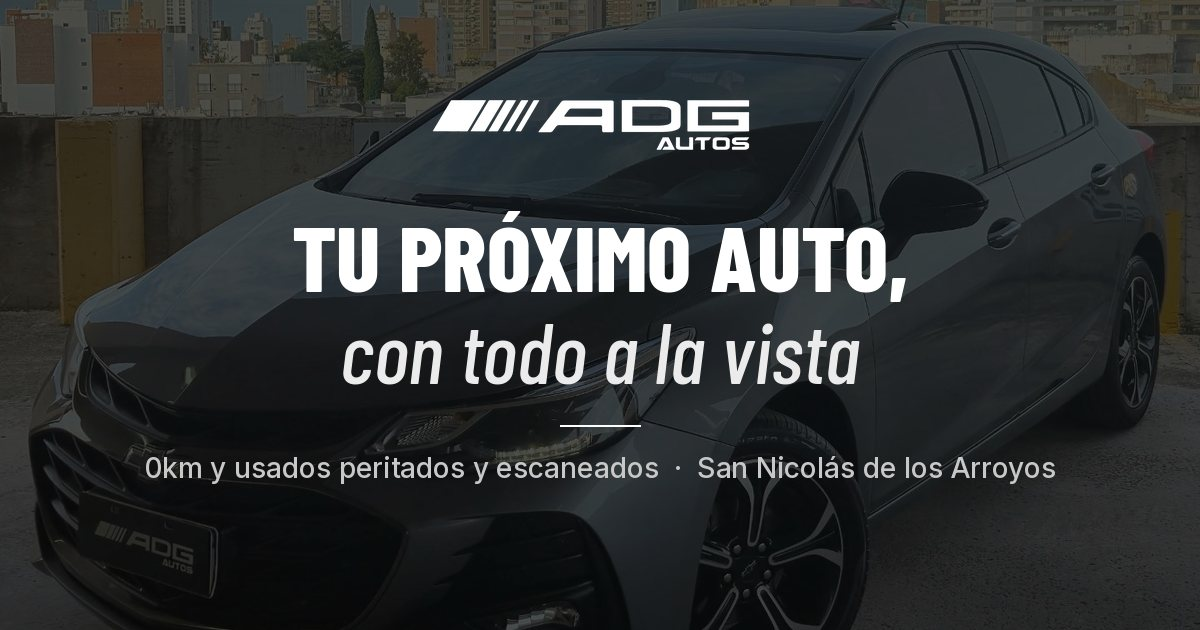
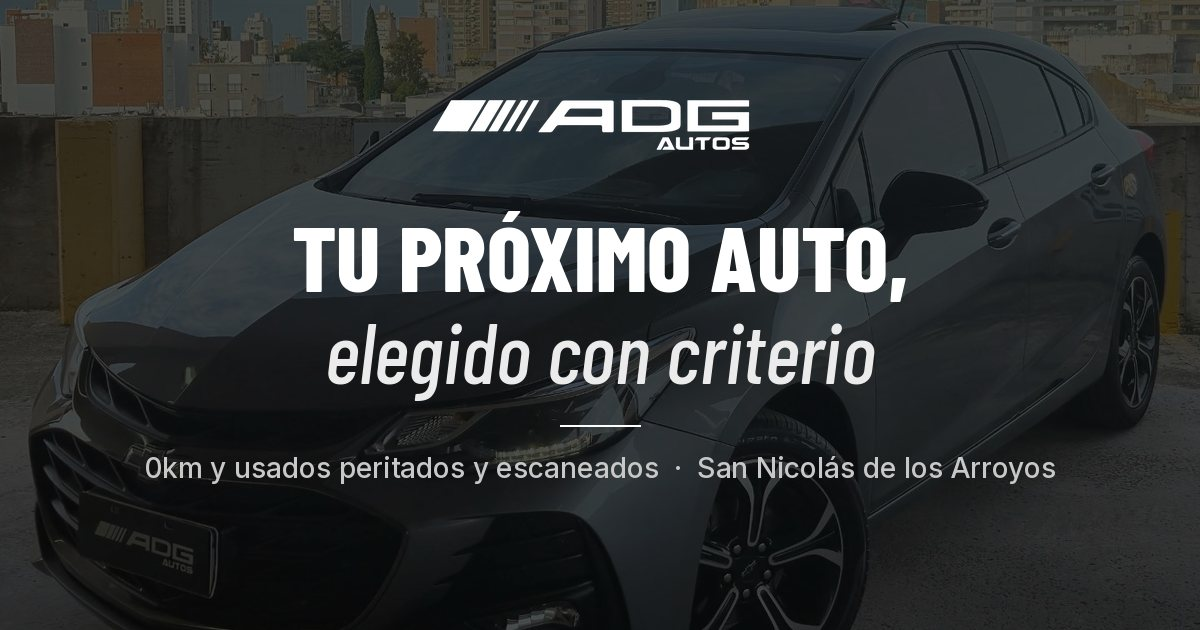
Mantener slogan original y usar reseñas reales de Google en testimonios
Claude-Session: https://claude.ai/code/session_01MQQQfBqcTWHq4wKFA4Y4eU

Changed region(s): [[0.2467, 0.5127, 0.74, 0.6333]]

diff --git a/index.html b/index.html
@@ -74,7 +74,7 @@
         <span class="hero-badge">✦ 10 años de experiencia</span>
         <h1>
             Tu próximo auto,
-            <span class="line-2">con todo a la vista</span>
+            <span class="line-2">elegido con criterio</span>
         </h1>
         <p class="hero-subtitle">
             Concesionario de vehículos 0km y usados seleccionados en San Nicolás.
@@ -582,34 +582,56 @@
             <div class="testimonials-track" id="testimonialsTrack">
                 <div class="testimonial-card">
                     <div class="testimonial-stars">★★★★★</div>
-                    <p class="testimonial-text">"La atención y gestión de Agustín 10 puntos. Compré una Hilux y fue todo tal cual me había dicho: peritaje, documentación impecable. Sin dudas para recomendar."</p>
+                    <p class="testimonial-text">"Todo el proceso de compra fue muy claro y seguro, con buen asesoramiento previo. Muy recomendable."</p>
                     <div class="testimonial-author">
-                        <div class="testimonial-avatar">MM</div>
+                        <div class="testimonial-avatar">PG</div>
                         <div class="testimonial-info">
-                            <div class="testimonial-name">Martín Molina</div>
-                            <div class="testimonial-role">San Nicolás</div>
+                            <div class="testimonial-name">Pablo Giovanelli</div>
+                            <div class="testimonial-role">Reseña en Google</div>
                         </div>
                     </div>
                 </div>
                 <div class="testimonial-card">
                     <div class="testimonial-stars">★★★★★</div>
-                    <p class="testimonial-text">"Compré un vehículo 0km con financiación, me guiaron paso a paso despejando las dudas y se encargaron de TODO. Excelente la atención y muy atentos siempre."</p>
+                    <p class="testimonial-text">"Excelente atención! Super atento y muy muy responsable. Excelente asesoramiento. Se concretó todo en el tiempo y forma estipulada! Totalmente recomendable!!"</p>
                     <div class="testimonial-author">
-                        <div class="testimonial-avatar">CB</div>
+                        <div class="testimonial-avatar">PM</div>
                         <div class="testimonial-info">
-                            <div class="testimonial-name">Carolina Beltrán</div>
-                            <div class="testimonial-role">Rosario</div>
+                            <div class="testimonial-name">Patricia Manelli</div>
+                            <div class="testimonial-role">Reseña en Google</div>
                         </div>
                     </div>
                 </div>
                 <div class="testimonial-card">
                     <div class="testimonial-stars">★★★★★</div>
-                    <p class="testimonial-text">"Buscaba un usado en buen estado y me ofreció un Focus que realmente valía la pena. Me mostró el escáner, me explicó todo. Transparente del principio al fin."</p>
+                    <p class="testimonial-text">"Excelente el trabajo de Agustín, no solo el mejor precio sino también la atención. Resuelve todo."</p>
                     <div class="testimonial-author">
-                        <div class="testimonial-avatar">JG</div>
+                        <div class="testimonial-avatar">GT</div>
                         <div class="testimonial-info">
-                            <div class="testimonial-name">Juan Godoy</div>
-                            <div class="testimonial-role">Pergamino</div>
+                            <div class="testimonial-name">Gonzalo Taiana</div>
+                            <div class="testimonial-role">Reseña en Google</div>
+                        </div>
+                    </div>
+                </div>
+                <div class="testimonial-card">
+                    <div class="testimonial-stars">★★★★★</div>
+                    <p class="testimonial-text">"Un genio, me asesoró y encontré el vehículo que estaba buscando. Muy feliz con la compra. Gracias Agustín."</p>
+                    <div class="testimonial-author">
+                        <div class="testimonial-avatar">LF</div>
+                        <div class="testimonial-info">
+                            <div class="testimonial-name">Leandro Fischer</div>
+                            <div class="testimonial-role">Reseña en Google</div>
+                        </div>
+                    </div>
+                </div>
+                <div class="testimonial-card">
+                    <div class="testimonial-stars">★★★★★</div>
+                    <p class="testimonial-text">"Agustín un capo, me armó la financiación y el auto impecable."</p>
+                    <div class="testimonial-author">
+                        <div class="testimonial-avatar">MN</div>
+                        <div class="testimonial-info">
+                            <div class="testimonial-name">Matías Noé</div>
+                            <div class="testimonial-role">Reseña en Google</div>
                         </div>
                     </div>
                 </div>
